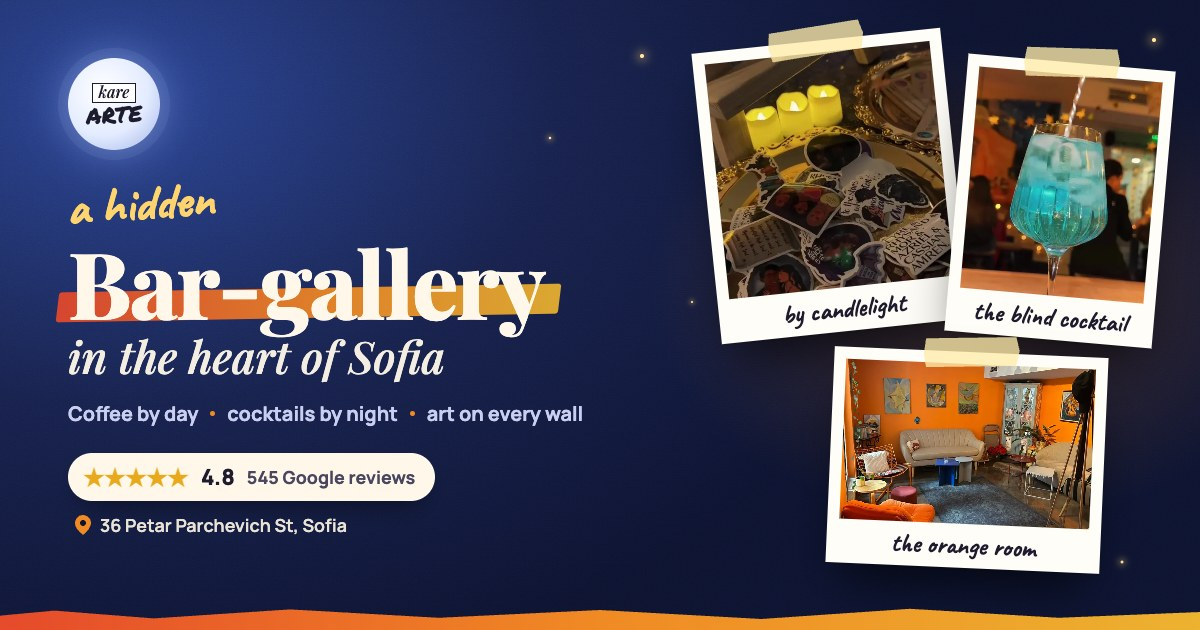
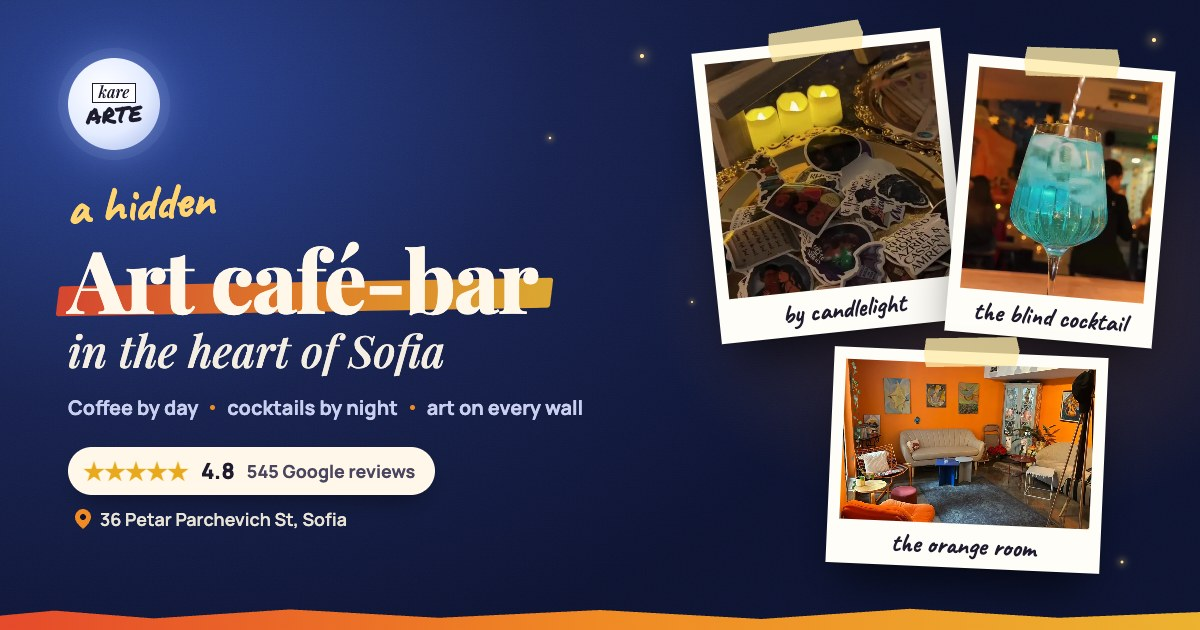
Rename to 'Арт кафе-бар' / 'Art café-bar' everywhere (hero, meta, footer, about, share images); new day/night hero lines without terraces and jazz

Changed region(s): [[0.0308, 0.3921, 0.4933, 0.6032], [0.0308, 0.6333, 0.4933, 0.8444]]

diff --git a/components/views/Home.tsx b/components/views/Home.tsx
@@ -23,7 +23,7 @@ export const homeMeta = (lang: Lang) =>
   pageMeta(
     lang,
     "/",
-    T(lang, "КаРе-АртЕ — скрита бар-галерия в сърцето на София", "KaRe-Arte — a hidden bar-gallery in the heart of Sofia"),
+    T(lang, "КаРе-АртЕ — скрит арт кафе-бар в сърцето на София", "KaRe-Arte — a hidden art café-bar in the heart of Sofia"),
     T(
       lang,
       "Кафе и лимонади денем, авторски коктейли нощем. Куиз, джаз, рисуване с вино и картини навсякъде. Ул. „Петър Парчевич“ 36 · 4,8★ от 545 отзива в Google.",
@@ -82,13 +82,13 @@ export function Home({ lang }: { lang: Lang }) {
               </span>
             </a>
             <h1 data-reveal="up" style={{ "--d": "80ms" } as React.CSSProperties}>
-              <span className="h1-hand">{bg ? "скрита" : "a hidden"}</span>
-              <span className="h1-main">{bg ? "Бар-галерия" : "Bar-gallery"}</span>
+              <span className="h1-hand">{bg ? "скрит" : "a hidden"}</span>
+              <span className="h1-main">{bg ? "Арт кафе-бар" : "Art café-bar"}</span>
               <span className="h1-sub">{bg ? "в сърцето на София" : "in the heart of Sofia"}</span>
             </h1>
             <p className="hero-lead" data-reveal="up" style={{ "--d": "160ms" } as React.CSSProperties}>
-              <span className="only-day">{bg ? "Сутрин — кафе, лимонади и тишина за лаптопа. Две тераси отзад." : "Mornings — coffee, lemonades and quiet for your laptop. Two terraces out back."}</span>
-              <span className="only-night">{bg ? "Вечер — авторски коктейли, свещи, куиз и джаз под стенописа на Ван Гог." : "Evenings — signature cocktails, candles, quizzes and jazz under the Van Gogh mural."}</span>
+              <span className="only-day">{bg ? "Сутрин — кафе, лимонади и тишина за лаптопа, сред картини и книги." : "Mornings — coffee, lemonades and quiet for your laptop, among paintings and books."}</span>
+              <span className="only-night">{bg ? "Вечер — авторски коктейли, свещи и куиз под стенописа на Ван Гог." : "Evenings — signature cocktails, candles and quizzes under the Van Gogh mural."}</span>
             </p>
             <div className="hero-cta" data-reveal="up" style={{ "--d": "220ms" } as React.CSSProperties}>
               <Link href={to(lang, "reservations")} className="btn btn-accent btn-lg">

diff --git a/lib/meta.ts b/lib/meta.ts
@@ -23,7 +23,7 @@ export function pageMeta(lang: Lang, path: string, title: string, description: s
       url: lang === "en" ? enUrl : bgUrl,
       locale: lang === "en" ? "en_GB" : "bg_BG",
       alternateLocale: lang === "en" ? "bg_BG" : "en_GB",
-      images: [{ url: lang === "en" ? "/og-en.jpg" : "/og.jpg", width: 1200, height: 630, alt: lang === "en" ? "KaRe-Arte — a hidden bar-gallery in the heart of Sofia" : "КаРе-АртЕ — скрита бар-галерия в сърцето на София" }],
+      images: [{ url: lang === "en" ? "/og-en.jpg" : "/og.jpg", width: 1200, height: 630, alt: lang === "en" ? "KaRe-Arte — a hidden art café-bar in the heart of Sofia" : "КаРе-АртЕ — скрит арт кафе-бар в сърцето на София" }],
     },
     twitter: { card: "summary_large_image", title, description, images: [lang === "en" ? "/og-en.jpg" : "/og.jpg"] },
     icons: { icon: [{ url: "/icon.svg", type: "image/svg+xml" }], apple: "/apple-touch-icon.png" },
@@ -33,4 +33,4 @@ export function pageMeta(lang: Lang, path: string, title: string, description: s
 }
 
 export const T = (lang: Lang, bg: string, en: string) => (lang === "bg" ? bg : en);
-export const suffix = (lang: Lang) => (lang === "bg" ? " · КаРе-АртЕ, бар-галерия в София" : " · KaRe-Arte, bar-gallery in Sofia");
+export const suffix = (lang: Lang) => (lang === "bg" ? " · КаРе-АртЕ, арт кафе-бар в София" : " · KaRe-Arte, art café-bar in Sofia");

diff --git a/components/views/Pages.tsx b/components/views/Pages.tsx
@@ -165,7 +165,7 @@ function EventCardLite({ e, lang }: { e: KAEvent; lang: Lang }) {
 }
 
 /* ---------------- GALLERY ---------------- */
-export const galleryMeta = (l: Lang) => pageMeta(l, "/gallery/", T(l, "Галерия", "Gallery") + suffix(l), T(l, "Снимки и видео от бар-галерията: интериор, градина, коктейли и събития.", "Photos and video from the bar-gallery: interior, garden, cocktails and events."));
+export const galleryMeta = (l: Lang) => pageMeta(l, "/gallery/", T(l, "Галерия", "Gallery") + suffix(l), T(l, "Снимки и видео от арт кафе-бара: интериор, градина, коктейли и събития.", "Photos and video from the art café-bar: interior, garden, cocktails and events."));
 export function GalleryPage({ lang }: { lang: Lang }) {
   const videos = [
     { src: "/video/reel-night", title: T(lang, "Една вечер в Каре Арте", "A night in Kare Arte"), mood: "night" },

diff --git a/content/pages.ts b/content/pages.ts
@@ -79,8 +79,8 @@ export const findSteps: { title: L; text: L; img: string }[] = [
 
 export const about = {
   lead: {
-    bg: "Бар-галерия, скрита в офис сграда на крачка от „Витоша“. Сутрин — кафе и тишина. Вечер — коктейли, свещи и хора, които не бързат.",
-    en: "A bar-gallery hidden in an office building a step from Vitosha Blvd. Mornings: coffee and quiet. Evenings: cocktails, candles and people in no hurry.",
+    bg: "Арт кафе-бар, скрит в офис сграда на крачка от „Витоша“. Сутрин — кафе и тишина. Вечер — коктейли, свещи и хора, които не бързат.",
+    en: "An art café-bar hidden in an office building a step from Vitosha Blvd. Mornings: coffee and quiet. Evenings: cocktails, candles and people in no hurry.",
   },
   paragraphs: [
     {

diff --git a/components/Chrome.tsx b/components/Chrome.tsx
@@ -67,7 +67,7 @@ export function Footer({ lang }: { lang: Lang }) {
         </div>
       </div>
       <div className="container f-bottom">
-        <span>© {new Date().getFullYear()} KaRe-Arte · {bg ? "Бар-галерия, София" : "Bar-gallery, Sofia"}</span>
+        <span>© {new Date().getFullYear()} KaRe-Arte · {bg ? "Арт кафе-бар, София" : "Art café-bar, Sofia"}</span>
         <Link href={to(lang, "privacy")}>{bg ? "Поверителност и бисквитки" : "Privacy & cookies"}</Link>
       </div>
     </footer>

diff --git a/app/globals.css b/app/globals.css
@@ -1,4 +1,4 @@
-/* KaRe-Arte — bar-gallery. Day = warm plaster + sunflower; Night = Starry-Night navy + neon. */
+/* KaRe-Arte — art café-bar. Day = warm plaster + sunflower; Night = Starry-Night navy + neon. */
 :root {
   --brand-red: #e5482b;
   --brand-orange: #f08a24;
